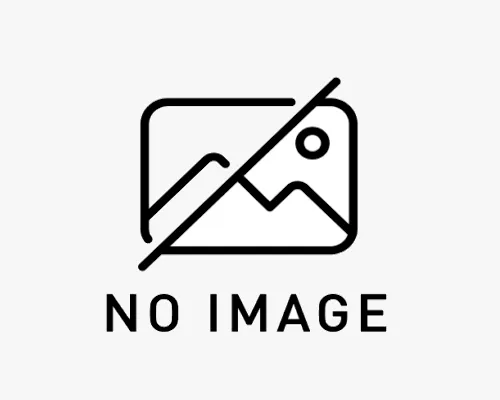
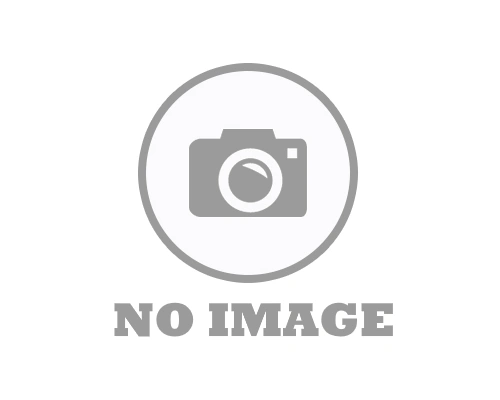
google map no data

Changed region(s): [[0.27, 0.15, 0.81, 0.84], [0.21, 0.72, 0.39, 0.84]]

diff --git a/frontend/src/app/components/GoogleMapIframe.jsx b/frontend/src/app/components/GoogleMapIframe.jsx
@@ -1,3 +1,6 @@
+import Image from "next/image"
+import { isMobile } from "react-device-detect"
+
 {/*
   機能名:GoogelMap Iframe用
 */}
@@ -5,12 +8,23 @@ const GoogleMapIframe = (props) => {
 
   return (
     <div>
-      <iframe
-        src={ props.water_gate_map_url }
-        width="100%"
-        className="aspect-square"
-      >
-      </iframe>
+      {props.water_gate_map_url ? (
+        <iframe
+          src={props.water_gate_map_url}
+          width="100%"
+          className="aspect-square"
+        >
+        </iframe>
+      ) : (
+        <Image
+          src="/no_map.webp"
+          alt="地図なし"
+          width={500}
+          height={400}
+          priority={true}
+          quality={isMobile ? 50 : 70}
+        />
+      )}
     </div>
   )
 }

diff --git a/frontend/src/app/components/ContentList.jsx b/frontend/src/app/components/ContentList.jsx
@@ -70,7 +70,7 @@ export default function ContentList() {
                         width={300}
                         height={240}
                         priority={true}
-                        className="z-10 relative hover:opacity-75"
+                        className="z-10 relative hover:opacity-75 border-b border-gray-200"
                         quality={isMobile ? 50 : 70}
                       />
                     </div>

diff --git a/backend/api/models.py b/backend/api/models.py
@@ -42,7 +42,7 @@ class WaterGate(models.Model):
     water_gate_supplement = models.TextField(verbose_name="補足", blank=True, null=True)
     water_gate_image = ResizedImageField(verbose_name="大画像", size=[500, 400], crop=['middle', 'center'], force_format="WEBP", upload_to='', blank=True, null=True)
     water_gate_image_sm = ResizedImageField(verbose_name="小画像", size=[300, 240], crop=['middle', 'center'], force_format="WEBP", upload_to='', blank=True, null=True)
-    water_gate_map_url = models.CharField(verbose_name="GoogleMapのIframeのsrc", max_length=512)
+    water_gate_map_url = models.CharField(verbose_name="GoogleMapのIframeのsrc", max_length=512, blank=True, null=True)
     # water_gate_latitude = models.DecimalField(verbose_name="緯度", max_digits=13, decimal_places=10, default=0)
     # water_gate_longitude = models.DecimalField(verbose_name="経度", max_digits=13, decimal_places=10, default=0)
 

diff --git a/backend/api/migrations/0019_alter_watergate_water_gate_map_url.py b/backend/api/migrations/0019_alter_watergate_water_gate_map_url.py
@@ -1,0 +1,18 @@
+# Generated by Django 4.2.5 on 2023-10-06 06:36
+
+from django.db import migrations, models
+
+
+class Migration(migrations.Migration):
+
+    dependencies = [
+        ('api', '0018_alter_watergate_water_gate_map_url'),
+    ]
+
+    operations = [
+        migrations.AlterField(
+            model_name='watergate',
+            name='water_gate_map_url',
+            field=models.CharField(blank=True, max_length=512, null=True, verbose_name='GoogleMapのIframeのsrc'),
+        ),
+    ]
